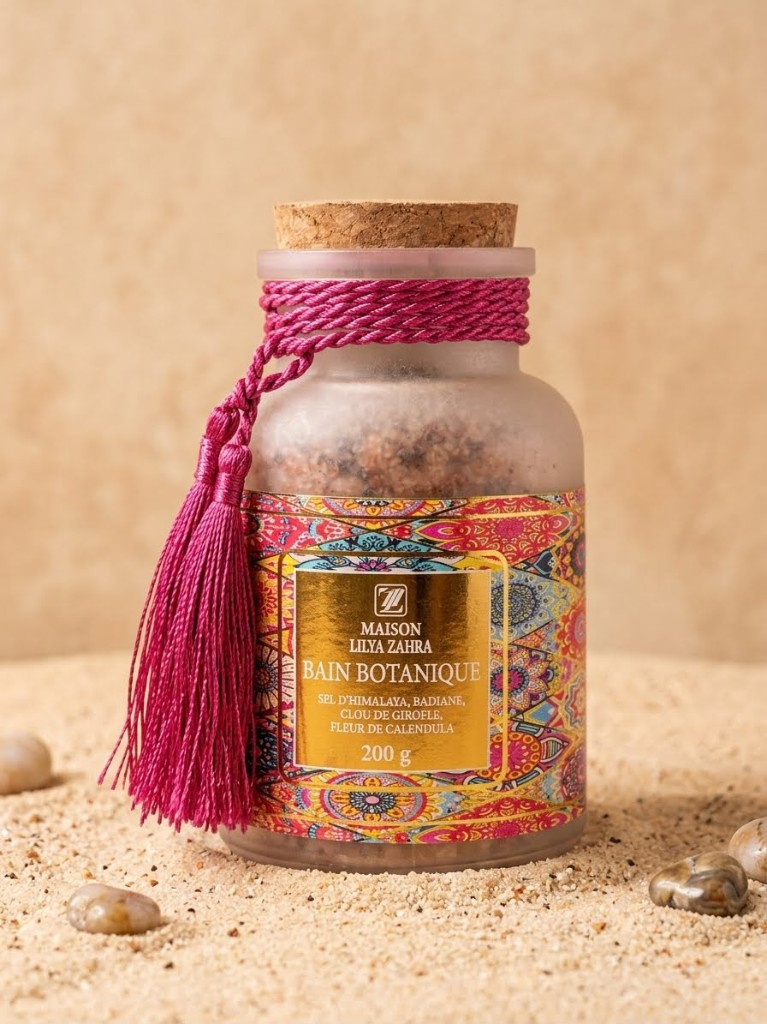
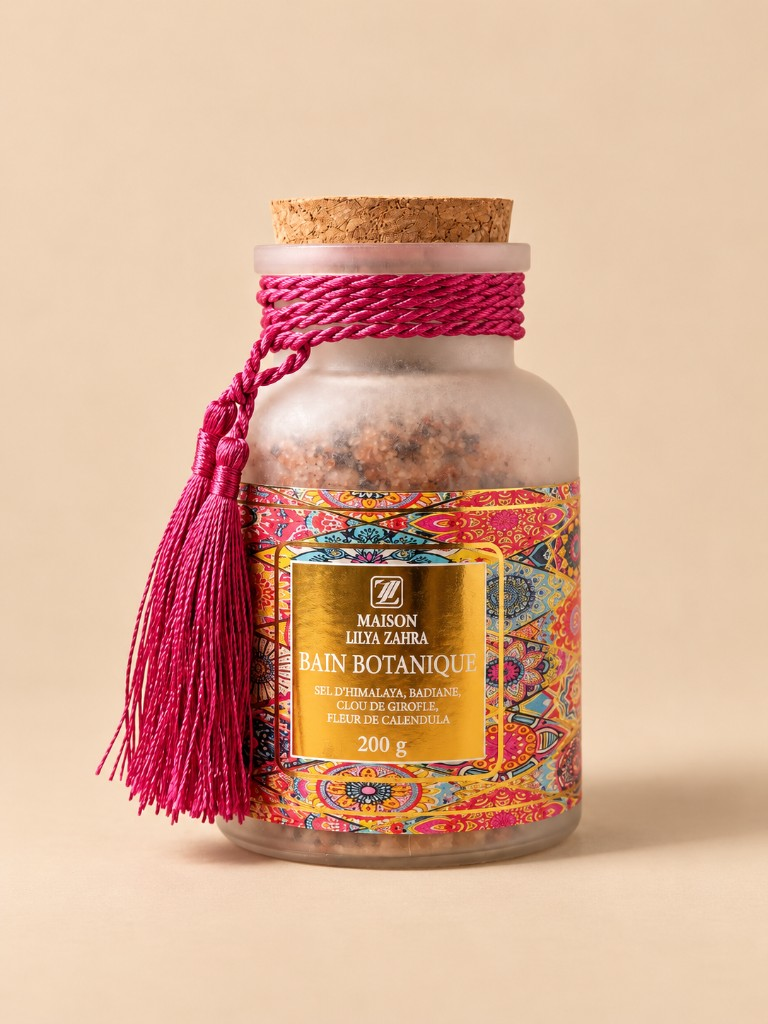
Replace ritual product photos with the studio shots.

diff --git a/src/lib/ritual-products.ts b/src/lib/ritual-products.ts
@@ -62,35 +62,35 @@ const soapUse = copy(
 export const ritualProducts: Product[] = [
   product({
     slug: "savon-the-vert", sku: "MLZ-TV-SO-100", productType: "soap", fragrance: "the-vert", scent: "Thé Vert", ritual: "body",
-    size: "100 G", volumeMl: 100, withArgan: false, width: 764, height: 1024,
+    size: "100 G", volumeMl: 100, withArgan: false, width: 768, height: 1024,
     name: copy("Savon Thé Vert", "Green Tea Soap", "صابون الشاي الأخضر"),
     description: copy("Savon Thé Vert, 100 g. 100 % naturel, fabriqué au Maroc.", "Green Tea soap, 100 g. 100% natural, made in Morocco.", "صابون الشاي الأخضر، 100 غ. طبيعي 100٪، صُنع في المغرب."),
     howToUse: soapUse,
   }),
   product({
     slug: "savon-ambre-musc", sku: "MLZ-AM-SO-100", productType: "soap", fragrance: "ambre-musc", scent: "Ambre Musc", ritual: "body",
-    size: "100 G", volumeMl: 100, withArgan: false, width: 1024, height: 575,
+    size: "100 G", volumeMl: 100, withArgan: false, width: 1024, height: 576,
     name: copy("Savon Ambre Musc", "Amber Musk Soap", "صابون العنبر والمسك"),
     description: copy("Savon Ambre Musc, 100 g. 100 % naturel, fabriqué au Maroc.", "Amber Musk soap, 100 g. 100% natural, made in Morocco.", "صابون العنبر والمسك، 100 غ. طبيعي 100٪، صُنع في المغرب."),
     howToUse: soapUse,
   }),
   product({
     slug: "savon-safran", sku: "MLZ-SF-SO-100", productType: "soap", fragrance: "safran", scent: "Safran", ritual: "body",
-    size: "100 G", volumeMl: 100, withArgan: false, width: 1024, height: 575,
+    size: "100 G", volumeMl: 100, withArgan: false, width: 1024, height: 576,
     name: copy("Savon Safran", "Saffron Soap", "صابون الزعفران"),
     description: copy("Savon Safran, 100 g. 100 % naturel, fabriqué au Maroc.", "Saffron soap, 100 g. 100% natural, made in Morocco.", "صابون الزعفران، 100 غ. طبيعي 100٪، صُنع في المغرب."),
     howToUse: soapUse,
   }),
   product({
     slug: "savon-fleur-doranger", sku: "MLZ-FO-SO-100", productType: "soap", fragrance: "fleur-doranger", scent: "Fleur d'Oranger", ritual: "body",
-    size: "100 G", volumeMl: 100, withArgan: false, width: 1024, height: 575,
+    size: "100 G", volumeMl: 100, withArgan: false, width: 1024, height: 576,
     name: copy("Savon Fleur d'Oranger", "Orange Blossom Soap", "صابون زهر البرتقال"),
     description: copy("Savon Fleur d'Oranger, 100 g. 100 % naturel, fabriqué au Maroc.", "Orange Blossom soap, 100 g. 100% natural, made in Morocco.", "صابون زهر البرتقال، 100 غ. طبيعي 100٪، صُنع في المغرب."),
     howToUse: soapUse,
   }),
   product({
     slug: "savon-noir-aker-fassi", sku: "MLZ-AF-NK-250", productType: "black-soap", fragrance: "aker-fassi", scent: "Aker Fassi", ritual: "hammam",
-    size: "250 ML", volumeMl: 250, withArgan: true, width: 767, height: 1024,
+    size: "250 ML", volumeMl: 250, withArgan: true, width: 768, height: 1024,
     name: copy("Savon noir Aker Fassi", "Aker Fassi Black Soap", "الصابون البلدي عكر فاسي"),
     description: copy("Savon noir à l’Aker Fassi et à l’huile d’argan, 250 ml.", "Black soap with Aker Fassi and argan oil, 250 ml.", "صابون بلدي بعكر فاسي وزيت الأركان، 250 مل."),
     howToUse: copy(
@@ -101,7 +101,7 @@ export const ritualProducts: Product[] = [
   }),
   product({
     slug: "savon-noir-nila", sku: "MLZ-NI-NK-250", productType: "black-soap", fragrance: "nila", scent: "Nila", ritual: "hammam",
-    size: "250 ML", volumeMl: 250, withArgan: true, width: 767, height: 1024,
+    size: "250 ML", volumeMl: 250, withArgan: true, width: 768, height: 1024,
     name: copy("Savon noir Nila", "Nila Black Soap", "الصابون البلدي النيلة"),
     description: copy("Savon noir au Nila et à l’huile d’argan, 250 ml.", "Black soap with Nila and argan oil, 250 ml.", "صابون بلدي بالنيلة وزيت الأركان، 250 مل."),
     howToUse: copy(
@@ -112,7 +112,7 @@ export const ritualProducts: Product[] = [
   }),
   product({
     slug: "velours-de-karite-the-vert", sku: "MLZ-TV-VK-80", productType: "shea-balm", fragrance: "the-vert", scent: "Thé Vert", ritual: "body",
-    size: "80 ML", volumeMl: 80, withArgan: true, width: 767, height: 1024,
+    size: "80 ML", volumeMl: 80, withArgan: true, width: 1024, height: 576,
     name: copy("Velours de Karité Thé Vert", "Green Tea Shea Balm", "مخمل الشيا بالشاي الأخضر"),
     description: copy("Velours de karité, soin fondant nourrissant à l’huile d’argan, parfum Thé Vert. 80 ml.", "Shea balm, a melting nourishing care with argan oil, scented with Green Tea. 80 ml.", "مخمل الشيا، عناية مغذية ذائبة بزيت الأركان وعطر الشاي الأخضر. 80 مل."),
     howToUse: copy(
@@ -123,7 +123,7 @@ export const ritualProducts: Product[] = [
   }),
   product({
     slug: "velours-de-karite-fleur-doranger", sku: "MLZ-FO-VK-80", productType: "shea-balm", fragrance: "fleur-doranger", scent: "Fleur d'Oranger", ritual: "body",
-    size: "80 ML", volumeMl: 80, withArgan: true, width: 767, height: 1024,
+    size: "80 ML", volumeMl: 80, withArgan: true, width: 768, height: 1024,
     name: copy("Velours de Karité Fleur d'Oranger", "Orange Blossom Shea Balm", "مخمل الشيا بزهر البرتقال"),
     description: copy("Velours de karité, soin fondant nourrissant à l’huile d’argan, parfum Fleur d’Oranger. 80 ml.", "Shea balm, a melting nourishing care with argan oil, scented with Orange Blossom. 80 ml.", "مخمل الشيا، عناية مغذية ذائبة بزيت الأركان وعطر زهر البرتقال. 80 مل."),
     howToUse: copy(
@@ -134,7 +134,7 @@ export const ritualProducts: Product[] = [
   }),
   product({
     slug: "gommage-visage-safran", sku: "MLZ-SF-FS-100", productType: "face-scrub", fragrance: "safran", scent: "Safran", ritual: "hammam",
-    size: "100 ML", volumeMl: 100, withArgan: true, width: 767, height: 1024,
+    size: "100 ML", volumeMl: 100, withArgan: true, width: 768, height: 1024,
     name: copy("Gommage pour visage Safran", "Saffron Face Scrub", "مقشر الوجه بالزعفران"),
     description: copy("Gommage pour le visage à l’huile d’argan, parfum Safran. 100 ml.", "Face scrub with argan oil, scented with Saffron. 100 ml.", "مقشر للوجه بزيت الأركان وعطر الزعفران. 100 مل."),
     howToUse: copy(
@@ -145,7 +145,7 @@ export const ritualProducts: Product[] = [
   }),
   product({
     slug: "bain-botanique", sku: "MLZ-BT-BB-200", productType: "botanical-bath", fragrance: "botanique", scent: "Bain botanique", ritual: "body",
-    size: "200 G", volumeMl: 200, withArgan: false, width: 767, height: 1024,
+    size: "200 G", volumeMl: 200, withArgan: false, width: 768, height: 1024,
     name: copy("Bain botanique", "Botanical Bath", "حمّام نباتي"),
     description: copy("Sel d’Himalaya, badiane, clou de girofle et fleur de calendula. 200 g.", "Himalayan salt, star anise, clove and calendula flower. 200 g.", "ملح الهيمالايا واليانسون النجمي والقرنفل وزهر الآذريون. 200 غ."),
     howToUse: copy(
